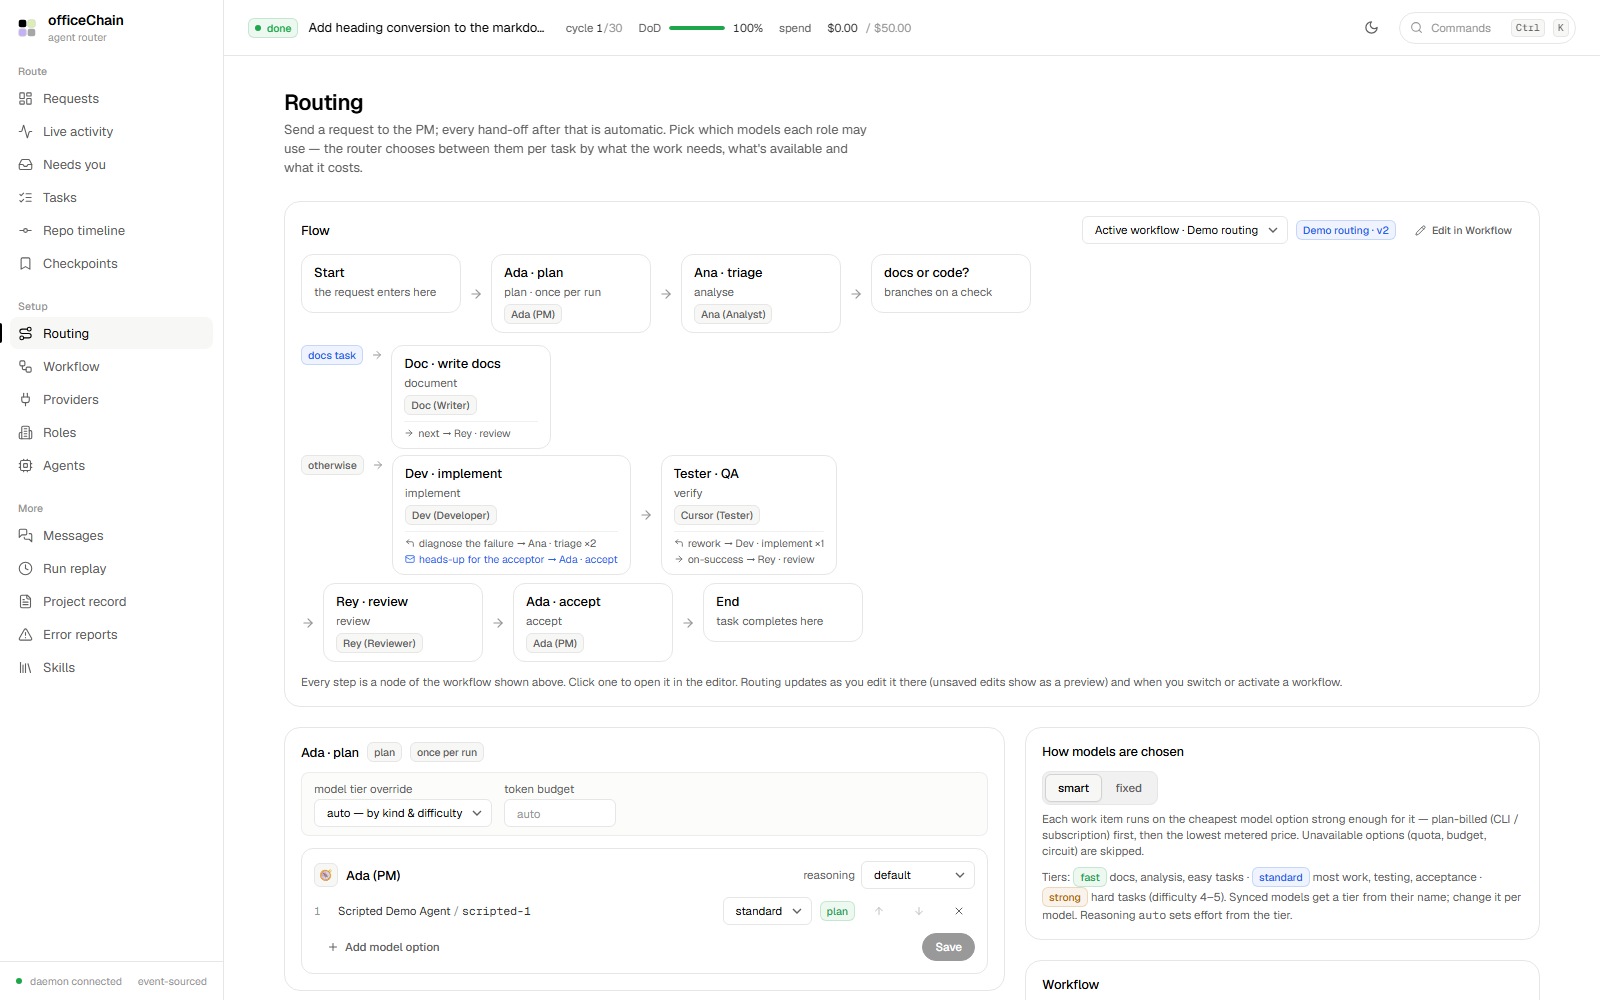
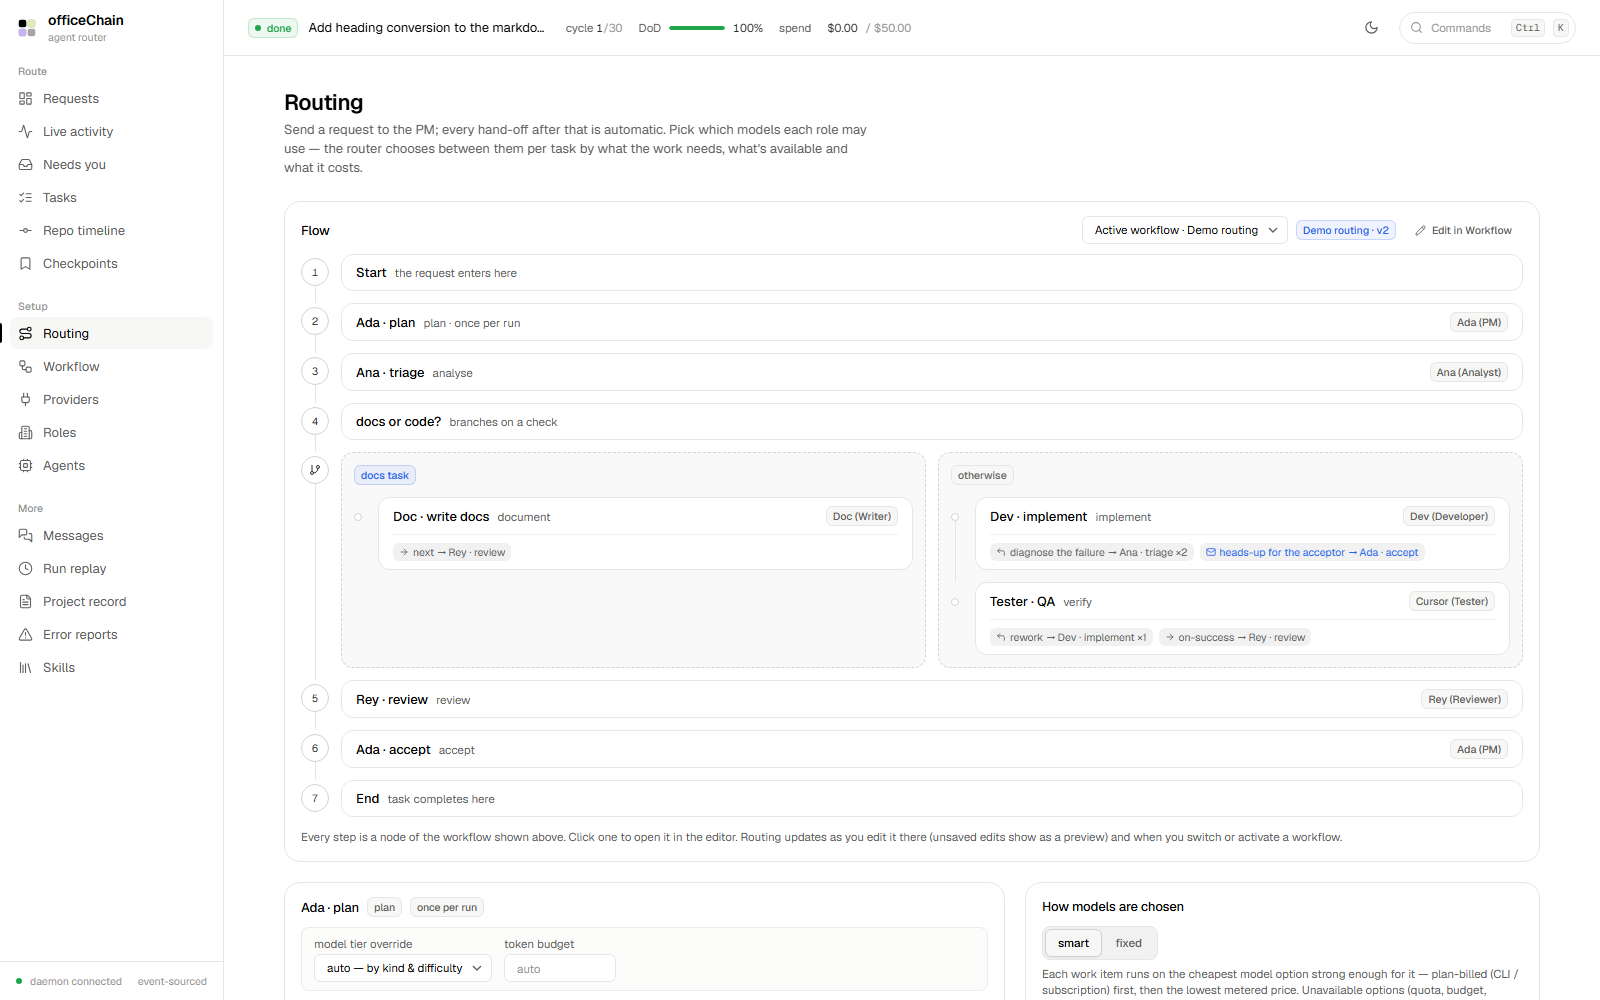
Routing: redesign the flow as a vertical rail with branch lanes
Steps are numbered along a rail and fit on one line; a fan-out becomes
side-by-side lanes headed by their condition, and loop, send-back and message
links render as chips on the step. Replaces the wrapping strip whose arrows
and branch labels got lost at line breaks. README screenshot updated.

diff --git a/ui/src/pages/Routing.tsx b/ui/src/pages/Routing.tsx
@@ -2,7 +2,7 @@ import React, { useCallback, useEffect, useRef, useState } from 'react';
 import { Link } from 'react-router-dom';
 import { post, put, useEvents, useQuery } from '../api';
 import { Avatar, Muted, PageHeader, Panel, Segmented, Tag, act, fmtAgo, toast, useCurrentRun, type Tone } from '../components';
-import { ArrowDown, ArrowRight, ArrowUp, CornerUpLeft, Mail, Pencil, Plus, X } from 'lucide-react';
+import { ArrowDown, ArrowRight, ArrowUp, CornerUpLeft, GitBranch, Mail, Pencil, Plus, X } from 'lucide-react';
 import type { WorkflowRow } from '../workflow';
 import { PURPOSE_LABEL, type RoutingRow, type RoutingStep, type RoutingView } from '../workflow';
 
@@ -189,56 +189,58 @@ function NodeRouting({ step, rv, agentFor, providers, onSaved }: { step: Routing
   );
 }
 
-// One step on the flow strip — a workflow node. Click opens it in the editor.
+// One step on the flow rail — a workflow node. Click opens it in the editor.
 function StepCard({ s }: { s: RoutingStep }) {
+  const what =
+    s.type === 'start' ? 'the request enters here'
+    : s.type === 'end' ? 'task completes here'
+    : s.type === 'condition' ? 'branches on a check'
+    : s.type === 'merge' ? 'waits for its branches'
+    : s.type === 'human' ? 'pauses for you'
+    : (PURPOSE_LABEL[s.purpose ?? ''] ?? s.purpose ?? 'step');
+  const chip = 'inline-flex items-center gap-1 rounded-md bg-sunken px-1.5 py-0.5 text-2xs text-fg-3';
   return (
     <Link
       to={`/workflow?node=${s.nodeId}`}
-      className={`rounded-xl border px-3 py-2 text-xs min-w-[10rem] max-w-[15rem] block hover:border-line-strong transition-colors ${s.disabled ? 'border-line/50 opacity-55' : 'border-line'} ${s.warnings.length ? 'border-warn/60' : ''}`}
+      className={`block rounded-xl border bg-surface px-3.5 py-2 text-xs hover:border-line-strong transition-colors ${s.disabled ? 'border-line/50 opacity-55' : 'border-line'} ${s.warnings.length ? 'border-warn/60' : ''}`}
       title={`${s.label}${s.warnings.length ? ` — ${s.warnings.join('; ')}` : ''}`}
     >
-      <div className="font-medium text-fg text-sm flex items-center gap-1.5 flex-wrap">
-        {s.label}
-        {s.disabled && <Tag tone="idle">bypassed</Tag>}
-        {s.type === 'merge' && <Tag tone="idle">merge</Tag>}
-        {s.type === 'human' && <Tag tone="warn">approval</Tag>}
-      </div>
-      <div className="text-fg-3 mt-0.5">
-        {s.type === 'start' && 'the request enters here'}
-        {s.type === 'end' && 'task completes here'}
-        {s.type === 'condition' && 'branches on a check'}
-        {s.type === 'merge' && 'waits for its branches'}
-        {s.type === 'human' && 'pauses for you'}
-        {s.type === 'agent' && (PURPOSE_LABEL[s.purpose ?? ''] ?? s.purpose ?? 'step')}
-        {s.scope === 'run' && ' · once per run'}
-      </div>
-      <div className="mt-1 flex flex-wrap gap-1">
-        {s.type === 'agent' && (
-          s.agentId
-            ? (s.agents.length ? s.agents.map((a) => <Tag key={a.id}>{a.name}</Tag>) : <Tag tone="bad">agent deleted</Tag>)
-            : s.role
-              ? (s.agents.length ? s.agents.map((a) => <Tag key={a.id}>{a.name}</Tag>) : <Tag tone="warn">any {s.role} — none assigned</Tag>)
-              : <Tag tone="warn">no agent or role</Tag>
-        )}
-        {s.modelTier && <Tag tone={TIER_TONE[s.modelTier]}>{s.modelTier}</Tag>}
-        {s.warnings.map((w, k) => <Tag key={k} tone="warn" title={w}>!</Tag>)}
+      <div className="flex flex-wrap items-center gap-x-3 gap-y-1.5">
+        <div className="min-w-[11rem] flex-1 flex flex-wrap items-baseline gap-x-2 gap-y-0.5">
+          <span className="font-medium text-fg text-sm">{s.label}</span>
+          {s.disabled && <Tag tone="idle">bypassed</Tag>}
+          {s.type === 'merge' && <Tag tone="idle">merge</Tag>}
+          {s.type === 'human' && <Tag tone="warn">approval</Tag>}
+          <span className="text-fg-3">{what}{s.scope === 'run' && ' · once per run'}</span>
+        </div>
+        <div className="flex flex-wrap items-center justify-end gap-1">
+          {s.type === 'agent' && (
+            s.agentId
+              ? (s.agents.length ? s.agents.map((a) => <Tag key={a.id}>{a.name}</Tag>) : <Tag tone="bad">agent deleted</Tag>)
+              : s.role
+                ? (s.agents.length ? s.agents.map((a) => <Tag key={a.id}>{a.name}</Tag>) : <Tag tone="warn">any {s.role} — none assigned</Tag>)
+                : <Tag tone="warn">no agent or role</Tag>
+          )}
+          {s.modelTier && <Tag tone={TIER_TONE[s.modelTier]}>{s.modelTier}</Tag>}
+          {s.warnings.map((w, k) => <Tag key={k} tone="warn" title={w}>!</Tag>)}
+        </div>
       </div>
       {(s.loops.length > 0 || s.exits.length > 0 || s.messages.length > 0) && (
-        <div className="mt-1.5 space-y-0.5 border-t border-line/60 pt-1">
+        <div className="mt-2 flex flex-wrap gap-1.5 border-t border-line/60 pt-2">
           {s.loops.map((e) => (
-            <div key={e.edgeId} className="flex items-center gap-1 text-2xs text-fg-3">
+            <span key={e.edgeId} className={chip}>
               <CornerUpLeft size={10} className="shrink-0" /> {e.label ?? 'back'} → {e.toLabel}{e.maxLoops ? ` ×${e.maxLoops}` : ''}
-            </div>
+            </span>
           ))}
           {s.exits.map((e) => (
-            <div key={e.edgeId} className="flex items-center gap-1 text-2xs text-fg-3">
+            <span key={e.edgeId} className={chip}>
               <ArrowRight size={10} className="shrink-0" /> {e.label ?? e.kind} → {e.toLabel}
-            </div>
+            </span>
           ))}
           {s.messages.map((e) => (
-            <div key={e.edgeId} className="flex items-center gap-1 text-2xs text-info">
+            <span key={e.edgeId} className={`${chip} !text-info`}>
               <Mail size={10} className="shrink-0" /> {e.label ?? 'message'} → {e.toLabel}
-            </div>
+            </span>
           ))}
         </div>
       )}
@@ -246,43 +248,44 @@ function StepCard({ s }: { s: RoutingStep }) {
   );
 }
 
-function FlowRows({ rows }: { rows: RoutingRow[] }) {
+// The flow reads top to bottom along a rail: numbered steps on the main path, small dots inside a
+// branch lane. A fan-out splits into side-by-side lanes, each headed by its condition.
+function FlowRows({ rows, nested = false }: { rows: RoutingRow[]; nested?: boolean }) {
+  let n = 0;
   return (
-    <ol className="flex flex-wrap items-stretch gap-2">
-      {rows.map((r, i) => <FlowRowView key={i} row={r} arrow={i > 0} />)}
+    <ol>
+      {rows.map((r, i) => {
+        const last = i === rows.length - 1;
+        const marker = r.kind === 'step' ? (nested ? null : ++n) : r.kind === 'back' ? 'back' : 'branch';
+        return (
+          <li key={i} className={`relative ${nested ? 'pl-6' : 'pl-10'} ${last ? '' : 'pb-3'}`}>
+            {!last && <span aria-hidden className={`absolute w-px bg-line ${nested ? 'left-[3.5px] top-5 bottom-0' : 'left-[13.5px] top-8 bottom-0'}`} />}
+            {marker === null && <span aria-hidden className="absolute left-0 top-[16px] h-2 w-2 rounded-full border border-line-strong bg-surface" />}
+            {marker !== null && (
+              <span aria-hidden className={`absolute left-0 grid h-7 w-7 place-items-center rounded-full border border-line-strong bg-surface text-2xs font-mono text-fg-2 ${nested ? 'top-0.5' : 'top-1'}`}>
+                {marker === 'back' ? <CornerUpLeft size={12} /> : marker === 'branch' ? <GitBranch size={12} /> : marker}
+              </span>
+            )}
+            {r.kind === 'step' && <StepCard s={r.step} />}
+            {r.kind === 'back' && (
+              <div className="inline-flex items-center gap-1 rounded-lg border border-dashed border-line-strong px-2.5 py-1.5 text-xs text-fg-3">
+                back to <b className="font-medium text-fg-2">{r.toLabel}</b>
+              </div>
+            )}
+            {r.kind === 'branches' && (
+              <div className={`grid gap-3 ${r.lanes.length > 1 && !nested ? 'lg:grid-cols-2' : ''}`}>
+                {r.lanes.map((l) => (
+                  <div key={l.edgeId} className="min-w-0 rounded-xl border border-dashed border-line-strong bg-sunken/40 p-3">
+                    <div className="mb-3"><Tag tone={l.isElse ? 'idle' : 'info'}>{l.label}</Tag></div>
+                    <FlowRows rows={l.rows} nested />
+                  </div>
+                ))}
+              </div>
+            )}
+          </li>
+        );
+      })}
     </ol>
-  );
-}
-
-function FlowRowView({ row, arrow = true }: { row: RoutingRow; arrow?: boolean }) {
-  if (row.kind === 'step') {
-    return (
-      <>
-        {arrow && <li className="self-center text-fg-4"><ArrowRight size={14} /></li>}
-        <li><StepCard s={row.step} /></li>
-      </>
-    );
-  }
-  if (row.kind === 'back') {
-    return (
-      <li className="self-center flex items-center gap-1 text-2xs text-fg-3 rounded-lg border border-dashed border-line px-2 py-1">
-        <CornerUpLeft size={11} /> back to {row.toLabel}
-      </li>
-    );
-  }
-  // a fan-out: each lane is a stacked row labeled by its condition
-  return (
-    <li className="w-full mt-1 space-y-1.5">
-      {row.lanes.map((l) => (
-        <div key={l.edgeId} className="flex items-start gap-2">
-          <Tag tone={l.isElse ? 'idle' : 'info'}>{l.label}</Tag>
-          <ArrowRight size={12} className="mt-1 text-fg-4 shrink-0" />
-          <ol className="flex flex-wrap items-stretch gap-2 min-w-0">
-            {l.rows.map((r, i) => <FlowRowView key={i} row={r} arrow={i > 0} />)}
-          </ol>
-        </div>
-      ))}
-    </li>
   );
 }
 

diff --git a/README.md b/README.md
@@ -47,9 +47,9 @@ Build or clone a pipeline as a graph. When a run is selected, node rings and tak
 <img src="docs/screenshots/workflow.png" alt="Workflow editor showing a custom graph with a condition branch, loops and a message edge, with node states from a finished run" width="900">
 
 ### Routing
-The routing page is derived from the saved active workflow: each step shows its agents and model tier, with per-node overrides.
+The flow is derived from the saved active workflow and reads top to bottom: numbered steps, branch lanes with their conditions, and loop, send-back and message links on each step. Per-node model tier and budget overrides sit below it.
 
-<img src="docs/screenshots/routing.png" alt="Routing page showing the flow strip derived from the active workflow and per-agent model options" width="900">
+<img src="docs/screenshots/routing.png" alt="Routing page showing the active workflow as a numbered vertical flow with a two-lane branch, followed by per-agent model options" width="900">
 
 ### Live activity
 What each agent's CLI reports — prompts, messages, checks and hand-offs — with no extra model calls.
